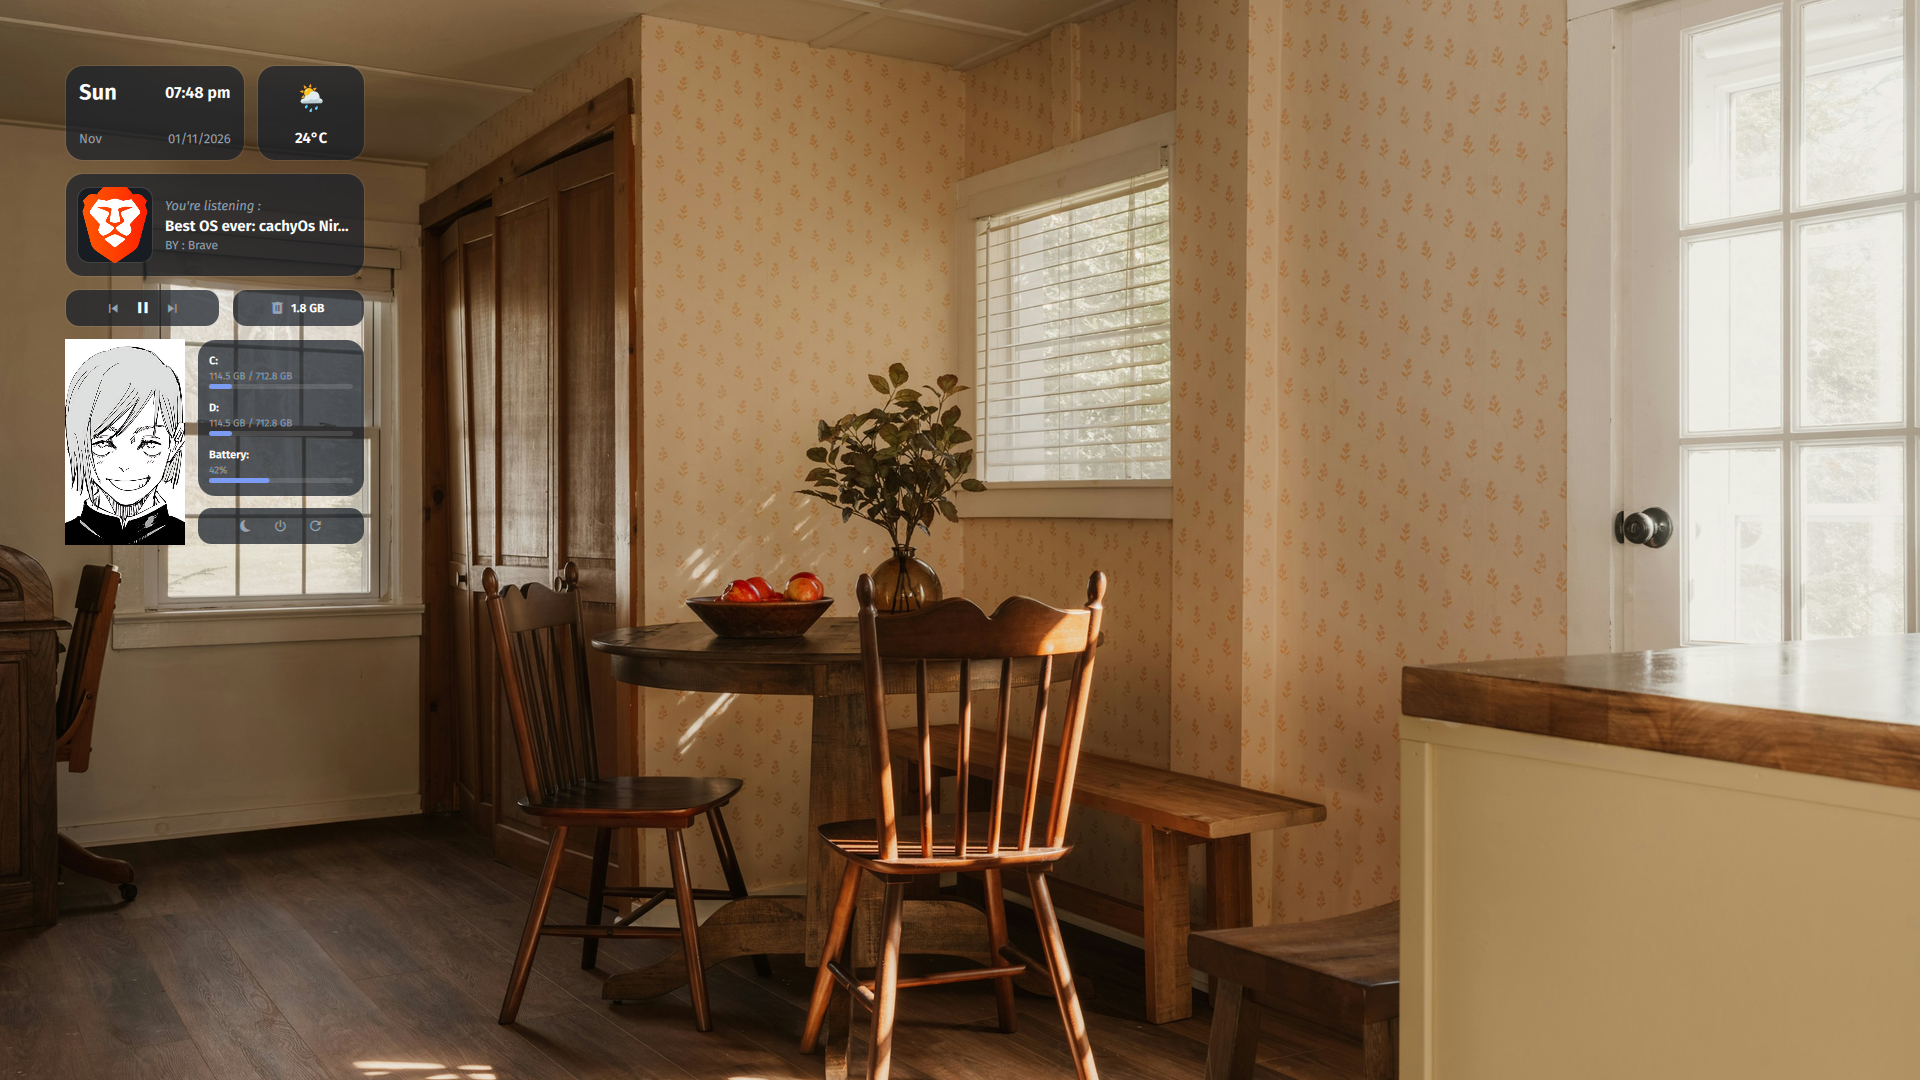
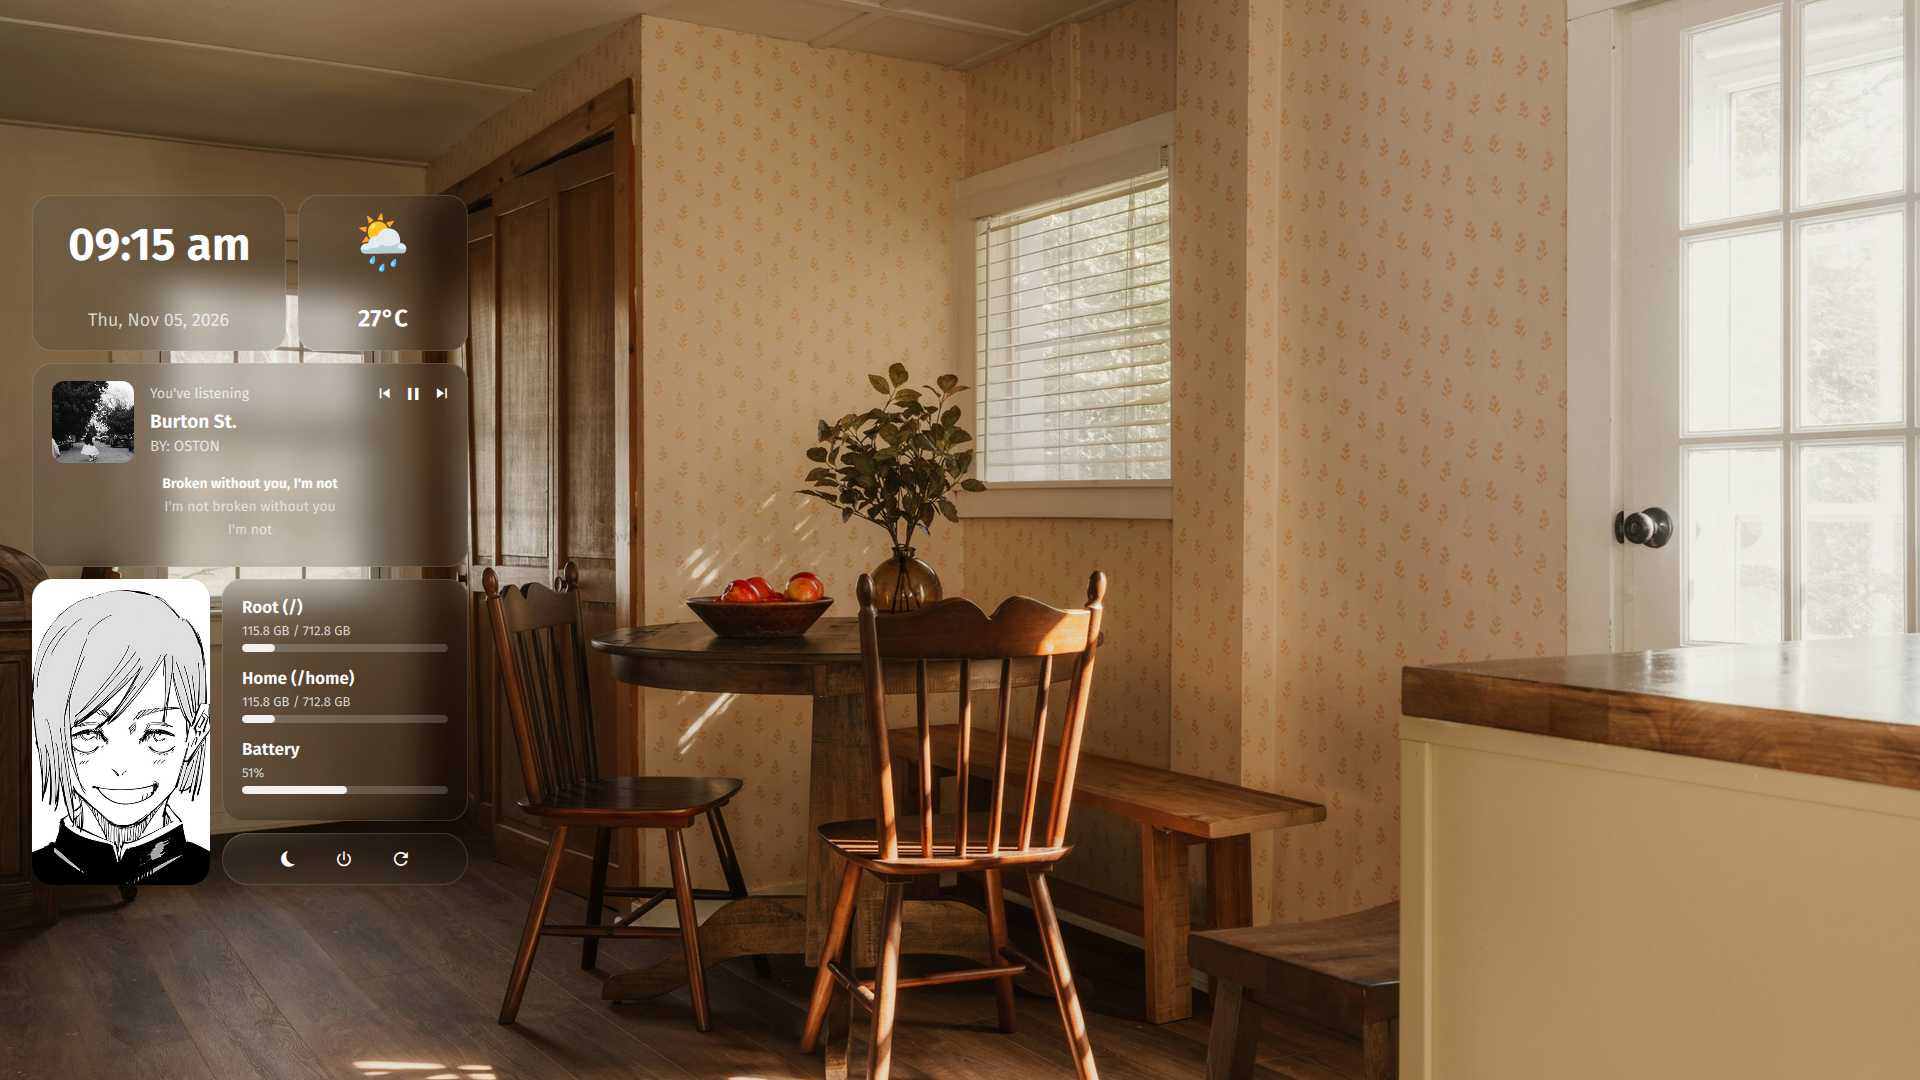
membuat widget agar mengikutin warna dari wallpaper

Changed region(s): [[0.0, 0.0611, 0.25, 0.825]]

diff --git a/DesktopWidgetsWindow.qml b/DesktopWidgetsWindow.qml
@@ -20,7 +20,7 @@ PanelWindow {
     readonly property int screenW: root.screen ? root.screen.width : 1920
     readonly property int screenH: root.screen ? root.screen.height : 1080
 
-    // Tight, zero-dead-space Bento Grid heights matched to the reference image
+    // Tight, zero-dead-space Bento Grid heights
     readonly property int gridGap: 12
     readonly property int row1H: 156
     readonly property int row2H: root.hasLyrics ? 204 : 118
@@ -46,20 +46,21 @@ PanelWindow {
     color: "transparent"
 
     // =========================================================================
-    // Theme Tokens — Vibrant Frosted Glass + Specular Edge & Top-Left Shine
+    // Theme Tokens — Pure Neutral Clear Frosted Glass (Zero Brown Tint)
+    // Adapts naturally to ANY wallpaper color (blue, sunset, dark, warm, etc.)
     // =========================================================================
-    readonly property color cardBg: Qt.rgba(0.14, 0.10, 0.08, 0.42) // #66221A14
-    readonly property color cardEdgeHighlight: Qt.rgba(1.0, 0.96, 0.90, 0.10)
-    readonly property color cardSpecularTopLeft: Qt.rgba(1.0, 0.95, 0.88, 0.07)
-    readonly property color textPrimary: "#FAF6F0"
-    readonly property color textSecondary: "#D6CCC2"
-    readonly property color barTrack: Qt.rgba(1.0, 1.0, 1.0, 0.14)
-    readonly property color barFill: "#E6CCB2"
+    readonly property color cardBg: Qt.rgba(0.0, 0.0, 0.0, 0.16)
+    readonly property color cardEdgeHighlight: Qt.rgba(1.0, 1.0, 1.0, 0.12)
+    readonly property color cardSpecularTopLeft: Qt.rgba(1.0, 1.0, 1.0, 0.06)
+    readonly property color textPrimary: "#FFFFFF"
+    readonly property color textSecondary: Qt.rgba(1.0, 1.0, 1.0, 0.78)
+    readonly property color barTrack: Qt.rgba(1.0, 1.0, 1.0, 0.18)
+    readonly property color barFill: Qt.rgba(1.0, 1.0, 1.0, 0.90)
     readonly property int cardRadius: 20
 
     // Dynamic stats & synced lyrics fetched from helper script
     property var stats: ({
-        "wallpaper": "/tmp/ml4w_widget_vibrant_frost.jpg",
+        "wallpaper": "",
         "root_used": "114.7 GB",
         "root_total": "712.8 GB",
         "root_pct": 16,
@@ -81,7 +82,7 @@ PanelWindow {
 
     readonly property string wallpaperUrl: (root.stats && root.stats.wallpaper)
         ? ("file://" + root.stats.wallpaper)
-        : ("file://" + Quickshell.env("HOME") + "/.cache/ml4w/hyprland-dotfiles/blurred_wallpaper.png")
+        : ""
 
     Process {
         id: statsProc
@@ -130,8 +131,8 @@ PanelWindow {
 
     // =========================================================================
     // Reusable Frosted Glass Card Component
-    // Combines Hyprland compositor blur + vibrant frosted backdrop + #66221A14
-    // + 1px specular rim + top-left to bottom-right subtle specular shine
+    // Pure Neutral Transparent Glass — takes 100% of its color from the active
+    // blurred wallpaper behind it, with zero brown/color cast
     // =========================================================================
     component FrostedCard: Item {
         id: cardRoot
@@ -154,7 +155,7 @@ PanelWindow {
                 maskSource: cardMask
             }
 
-            // 1. Vibrant, brightness-boosted (1.05x) blurred wallpaper slice
+            // 1. Live blurred slice of current wallpaper (auto-updates via hashed filename)
             Image {
                 x: -(root.winX + cardRoot.globalOffsetX)
                 y: -(root.winY + cardRoot.globalOffsetY)
@@ -164,32 +165,33 @@ PanelWindow {
                 fillMode: Image.PreserveAspectCrop
                 horizontalAlignment: Image.AlignHCenter
                 verticalAlignment: Image.AlignVCenter
-                opacity: 0.90
+                opacity: 0.72
                 asynchronous: false
                 cache: false
+                visible: root.wallpaperUrl !== ""
             }
 
-            // 2. Lowered Dark Espresso Base Tint (#66221A14 / rgba(0.14, 0.10, 0.08, 0.42))
+            // 2. Pure Neutral Translucent Dimmer (0% color cast, just subtle contrast for white text)
             Rectangle {
                 anchors.fill: parent
                 color: root.cardBg
                 border.width: 0
             }
 
-            // 3. Top-Left to Bottom-Right Specular Shine
+            // 3. Subtle Neutral Glass Top-Left Specular Shine
             LinearGradient {
                 anchors.fill: parent
                 start: Qt.point(0, 0)
                 end: Qt.point(width, height)
                 gradient: Gradient {
                     GradientStop { position: 0.0; color: root.cardSpecularTopLeft }
-                    GradientStop { position: 0.55; color: Qt.rgba(1.0, 0.95, 0.88, 0.02) }
+                    GradientStop { position: 0.55; color: Qt.rgba(1.0, 1.0, 1.0, 0.015) }
                     GradientStop { position: 1.0; color: "transparent" }
                 }
             }
         }
 
-        // 4. Subtle 1px Glass Edge Highlight (faint specular rim)
+        // 4. Subtle 1px Neutral Glass Edge Highlight
         Rectangle {
             anchors.fill: parent
             radius: cardRoot.cornerRadius
@@ -502,7 +504,7 @@ PanelWindow {
             readonly property int powerPillH: 52
             readonly property int sysCardH: root.row3H - root.gridGap - powerPillH
 
-            // Left Column (178px): Character Poster with 20px Rounded Corners & Warm Paper Overlay (#14F5E6D3)
+            // Left Column (178px): Character Poster with 20px Rounded Corners (Clean Neutral)
             Item {
                 id: posterCard
                 x: 0
@@ -530,29 +532,6 @@ PanelWindow {
                         source: "assets/poster.jpg"
                         cache: false
                         fillMode: Image.PreserveAspectCrop
-                        visible: false
-                        layer.enabled: true
-                    }
-
-                    Rectangle {
-                        id: warmPaperMultiply
-                        anchors.fill: parent
-                        color: "#F3E7DA"
-                        visible: false
-                        layer.enabled: true
-                    }
-
-                    // Soft paper multiply + #14F5E6D3 overlay so stark white manga background looks like warm paper
-                    Blend {
-                        anchors.fill: parent
-                        source: rawPosterImg
-                        foregroundSource: warmPaperMultiply
-                        mode: "multiply"
-                    }
-
-                    Rectangle {
-                        anchors.fill: parent
-                        color: "#14F5E6D3"
                     }
                 }
             }

diff --git a/stats.py b/stats.py
@@ -1,5 +1,7 @@
 #!/usr/bin/env python3
 import configparser
+import glob
+import hashlib
 import json
 import os
 import re
@@ -61,23 +63,24 @@ def detect_active_wallpaper():
 
 cache_dir = os.path.expanduser("~/.cache/ml4w/hyprland-dotfiles")
 blurred_wp = os.path.join(cache_dir, "blurred_wallpaper.png")
-custom_blurred_wp = "/tmp/ml4w_widget_vibrant_frost.jpg"
-
 raw_wp = detect_active_wallpaper()
 
+custom_blurred_wp = ""
 if raw_wp:
-    meta_file = "/tmp/ml4w_widget_vibrant_frost.meta"
-    src_sig = f"{raw_wp}:{int(os.path.getmtime(raw_wp))}:v3"
-    cached_sig = ""
-    if os.path.exists(meta_file):
+    src_sig = f"{raw_wp}:{int(os.path.getmtime(raw_wp))}:v5"
+    wp_hash = hashlib.md5(src_sig.encode("utf-8")).hexdigest()[:10]
+    custom_blurred_wp = f"/tmp/ml4w_widget_frost_{wp_hash}.jpg"
+
+    if not os.path.exists(custom_blurred_wp):
         try:
-            with open(meta_file, "r") as f:
-                cached_sig = f.read().strip()
-        except Exception:
-            pass
-    if cached_sig != src_sig or not os.path.exists(custom_blurred_wp):
-        try:
-            # Matches Hyprland blur brightness=1.05, vibrancy=0.25 + strong multi-pass blur
+            # Remove older cached frost images so /tmp stays clean
+            for old_f in glob.glob("/tmp/ml4w_widget_frost_*.jpg"):
+                try:
+                    os.remove(old_f)
+                except Exception:
+                    pass
+
+            # Pure neutral 16px Gaussian blur without any artificial color tint
             subprocess.run(
                 [
                     "magick",
@@ -85,20 +88,17 @@ if raw_wp:
                     "-resize", "1920x1080^",
                     "-gravity", "center",
                     "-extent", "1920x1080",
-                    "-modulate", "105,125,100",
-                    "-blur", "0x36",
+                    "-blur", "0x16",
                     custom_blurred_wp,
                 ],
                 stdout=subprocess.DEVNULL,
                 stderr=subprocess.DEVNULL,
                 timeout=4,
             )
-            with open(meta_file, "w") as f:
-                f.write(src_sig)
         except Exception:
             pass
 
-if os.path.exists(custom_blurred_wp):
+if custom_blurred_wp and os.path.exists(custom_blurred_wp):
     data["wallpaper"] = custom_blurred_wp
 elif os.path.exists(blurred_wp):
     data["wallpaper"] = blurred_wp

diff --git a/README.md b/README.md
@@ -2,7 +2,7 @@
 
 A modern **Warm Frosted Glass Bento Grid** desktop widget suite for Wayland/Hyprland, built natively with **Quickshell (Qt6 / QML)** and a lightweight Python background service.
 
-![Preview](assets/preview-terbaru.png)
+![Preview](assets/preview.png)
 
 ---
 
